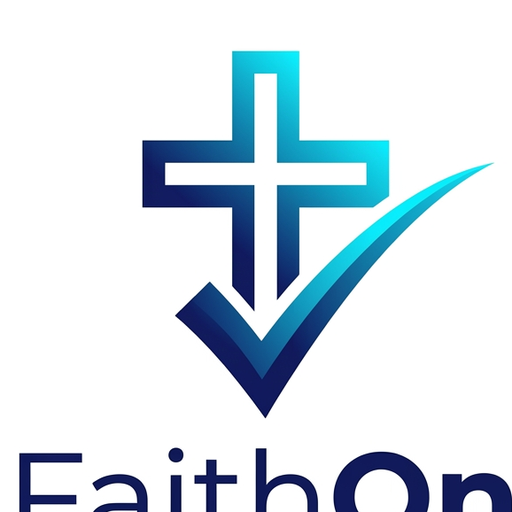
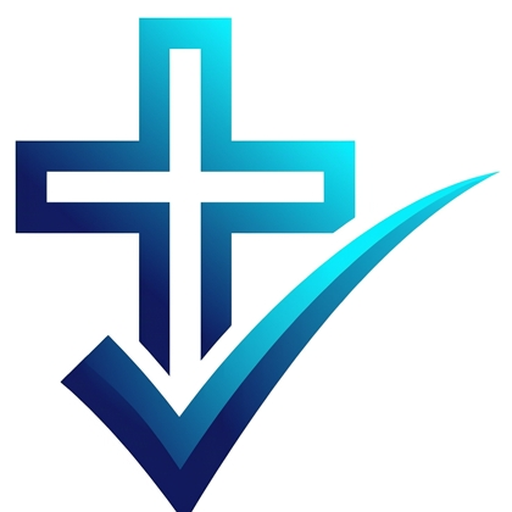
feat: 대시보드 맨 앞에 금주 주일 (총합산) 지표 카드 추가 및 로그인/내부 로고 FaithOn 텍스트 잘림 현상 완벽 해결
1. 대시보드 통계 카드 맨 앞에 성도 + 새참자 통합 '금주 주일 (총합산)' 카드 추가 (예: 236명 / 325명 (72.6%), 지난주 대비 증감률 및 증감 인원 연동)
2. 로그인 화면에 십자가 심볼과 FaithOn 텍스트가 모두 온전하게 들어간 고해상도 'logo-full.png' 적용 (영문 텍스트 잘림 해결)
3. 사이드바 및 모바일 상단 로고는 순수 심볼(icon-512.png, icon-192.png)을 적용하여 영문 텍스트가 잘려 보이는 현상 원천 차단

diff --git a/public/index.html b/public/index.html
@@ -118,8 +118,14 @@
                 </div>
             </div>
 
-            <!-- Stats Overview (금주 주일 성도, 금주 수요 성도, 금주 주일 새참자, 금주 수요 새참자) -->
+            <!-- Stats Overview (금주 총출석 합산, 금주 주일 성도, 금주 수요 성도, 금주 주일 새참자, 금주 수요 새참자) -->
             <div class="stats-grid" id="statsGrid">
+                <div class="card stat-card" style="border-left-color: #6366f1; background: linear-gradient(135deg, #ffffff 0%, #f8faff 100%);">
+                    <span class="stat-title"><i class="fa-solid fa-users" style="color: #6366f1; margin-right: 4px;"></i> 금주 주일 (총합산)</span>
+                    <span class="stat-value" id="valTotalAttend" style="color: #4338ca;">-</span>
+                    <div style="font-size: 0.76rem; color: var(--text-secondary); margin-top: 2px; font-weight: 500;" id="subTotalBreakdown">총 출석률 -%</div>
+                    <span class="stat-desc" id="diffTotalDesc"><i class="fa-solid fa-spinner fa-spin"></i> 집계 중</span>
+                </div>
                 <div class="card stat-card">
                     <span class="stat-title"><i class="fa-solid fa-church" style="color: #1428A0; margin-right: 4px;"></i> 금주 주일 (성도)</span>
                     <span class="stat-value" id="valSundayAttend">-</span>
@@ -349,6 +355,8 @@
         const memberMatrixBody = document.getElementById('memberMatrixBody');
 
         // Stat value elements
+        const valTotalAttend = document.getElementById('valTotalAttend');
+        const diffTotalDesc = document.getElementById('diffTotalDesc');
         const valSundayAttend = document.getElementById('valSundayAttend');
         const diffSundayDesc = document.getElementById('diffSundayDesc');
         const valWednesdayAttend = document.getElementById('valWednesdayAttend');
@@ -524,6 +532,31 @@
                 const data = json.data;
                 const m = data.metrics;
                 cachedTrend = data.trend;
+
+                // 0. 금주 주일 (총합산: 성도 + 새참자) [총 출석수 / 총 재적 (출석률%)]
+                const grandTotalMem = m.total_members || (regTotalMem + (m.newcomer_count || 0));
+                const totalSunAtt = (m.regular_attended || 0) + (m.newcomer_attended || 0);
+                const totalSunRate = grandTotalMem > 0 ? ((totalSunAtt / grandTotalMem) * 100).toFixed(1) : '0.0';
+                if (valTotalAttend) {
+                    valTotalAttend.innerHTML = `${totalSunAtt}명 <span style="font-size: 0.92rem; font-weight: 600; color: var(--text-secondary);">/ ${grandTotalMem}명 (${totalSunRate}%)</span>`;
+                }
+                const subTotalBreakdown = document.getElementById('subTotalBreakdown');
+                if (subTotalBreakdown) {
+                    subTotalBreakdown.innerHTML = `총 출석률 <strong style="color:#6366f1;">${totalSunRate}%</strong>`;
+                }
+
+                // 총합산 증감
+                const totDiffCnt = (m.sunday_diff_count !== undefined ? m.sunday_diff_count : 0) + (m.newcomer_diff_count !== undefined ? m.newcomer_diff_count : 0);
+                const prevTotalAtt = totalSunAtt - totDiffCnt;
+                const totDiffRate = prevTotalAtt > 0 ? (((totDiffCnt) / prevTotalAtt) * 100).toFixed(1) : '0.0';
+                const totDiffCntStr = totDiffCnt > 0 ? `(+${totDiffCnt}명)` : (totDiffCnt < 0 ? `(${totDiffCnt}명)` : `(0명)`);
+                if (diffTotalDesc) {
+                    if (totDiffCnt > 0 || (totDiffCnt === 0 && parseFloat(totDiffRate) >= 0)) {
+                        diffTotalDesc.innerHTML = `<i class="fa-solid fa-arrow-trend-up" style="color:var(--success-color);"></i> 지난주 대비 +${totDiffRate}% <span style="font-weight:700; margin-left:2px;">${totDiffCntStr}</span>`;
+                    } else {
+                        diffTotalDesc.innerHTML = `<i class="fa-solid fa-arrow-trend-down" style="color:var(--danger-color);"></i> 지난주 대비 ${totDiffRate}% <span style="font-weight:700; margin-left:2px;">${totDiffCntStr}</span>`;
+                    }
+                }
 
                 // 1. 금주 주일 (성도) [성도 출석수 / 성도 재적 (출석률%)]
                 const regTotalMem = m.regular_total !== undefined ? m.regular_total : Math.max(0, (m.total_members || 0) - (m.newcomer_count || 0));

diff --git a/public/css/style.css b/public/css/style.css
@@ -132,19 +132,15 @@ button {
   display: flex;
   align-items: center;
   justify-content: center;
-  color: white;
-  font-weight: bold;
-  font-size: 1.1rem;
-  box-shadow: 0 4px 12px rgba(20, 40, 160, 0.15);
+  box-shadow: 0 4px 12px rgba(20, 40, 160, 0.12);
   overflow: hidden;
-  padding: 2px;
+  padding: 4px;
 }
 
 .brand-img-logo {
   width: 100%;
   height: 100%;
-  object-fit: cover;
-  transform: scale(1.05); /* 꽉 차게 확대 */
+  object-fit: contain;
 }
 
 .brand-text {
@@ -873,17 +869,17 @@ button {
    ========================================================================== */
 .stats-grid {
   display: grid;
-  grid-template-columns: repeat(4, 1fr);
-  gap: 1rem;
+  grid-template-columns: repeat(5, 1fr);
+  gap: 0.85rem;
   margin-bottom: 1.5rem;
 }
 
 .stat-card {
   display: flex;
   flex-direction: column;
-  gap: 0.3rem;
+  gap: 0.25rem;
   border-left: 4px solid var(--accent-color);
-  padding: 1.1rem 1.25rem;
+  padding: 0.95rem 1.1rem;
   min-width: 0;
   overflow: hidden;
   white-space: nowrap;
@@ -891,7 +887,7 @@ button {
 
 .stat-title {
   color: var(--text-secondary);
-  font-size: 0.85rem;
+  font-size: 0.82rem;
   font-weight: 700;
   white-space: nowrap;
   overflow: hidden;
@@ -899,7 +895,7 @@ button {
 }
 
 .stat-value {
-  font-size: 1.75rem;
+  font-size: 1.6rem;
   font-weight: 800;
   color: var(--text-primary);
   letter-spacing: -0.5px;
@@ -909,7 +905,7 @@ button {
 }
 
 .stat-desc {
-  font-size: 0.78rem;
+  font-size: 0.75rem;
   display: flex;
   align-items: center;
   gap: 0.25rem;
@@ -989,8 +985,8 @@ h1, h2, h3, h4, .stat-title, .stat-desc, .badge, .btn, .nav-item, .mobile-nav-it
     min-height: 380px;
   }
   .stats-grid {
-    grid-template-columns: repeat(2, 1fr);
-    gap: 0.75rem;
+    grid-template-columns: repeat(3, 1fr);
+    gap: 0.65rem;
   }
 }
 

diff --git a/public/login.html b/public/login.html
@@ -42,29 +42,25 @@
         }
         
         .brand-img {
-            width: 200px;
-            max-width: 80%;
+            width: 240px;
+            max-width: 90%;
             height: auto;
-            max-height: 200px;
+            max-height: 220px;
             object-fit: contain;
-            margin: 0 auto 1.25rem auto;
+            margin: 0 auto 0.75rem auto;
             display: block;
-            filter: drop-shadow(0 4px 12px rgba(20, 40, 160, 0.15));
+            filter: drop-shadow(0 6px 16px rgba(20, 40, 160, 0.12));
         }
         
         .login-title {
-            font-size: 1.85rem;
-            font-weight: 800;
-            margin-bottom: 0.25rem;
-            color: var(--accent-color);
-            letter-spacing: -0.5px;
+            display: none; /* logo-full.png에 이미 선명한 FaithOn 타이포가 포함되어 중복 방지 */
         }
         
         .login-subtitle {
             color: var(--text-secondary);
             margin-bottom: 1.8rem;
-            font-size: 0.9rem;
-            font-weight: 500;
+            font-size: 0.95rem;
+            font-weight: 600;
         }
         
         .login-form {
@@ -209,7 +205,7 @@
 </head>
 <body>
     <div class="login-container">
-        <img src="/images/icon-512.png" alt="FaithOn Logo" class="brand-img">
+        <img src="/images/logo-full.png" alt="FaithOn Logo" class="brand-img">
         <h1 class="login-title">FaithOn</h1>
         <p class="login-subtitle">창원교회 출석체크 관리 시스템</p>
         
